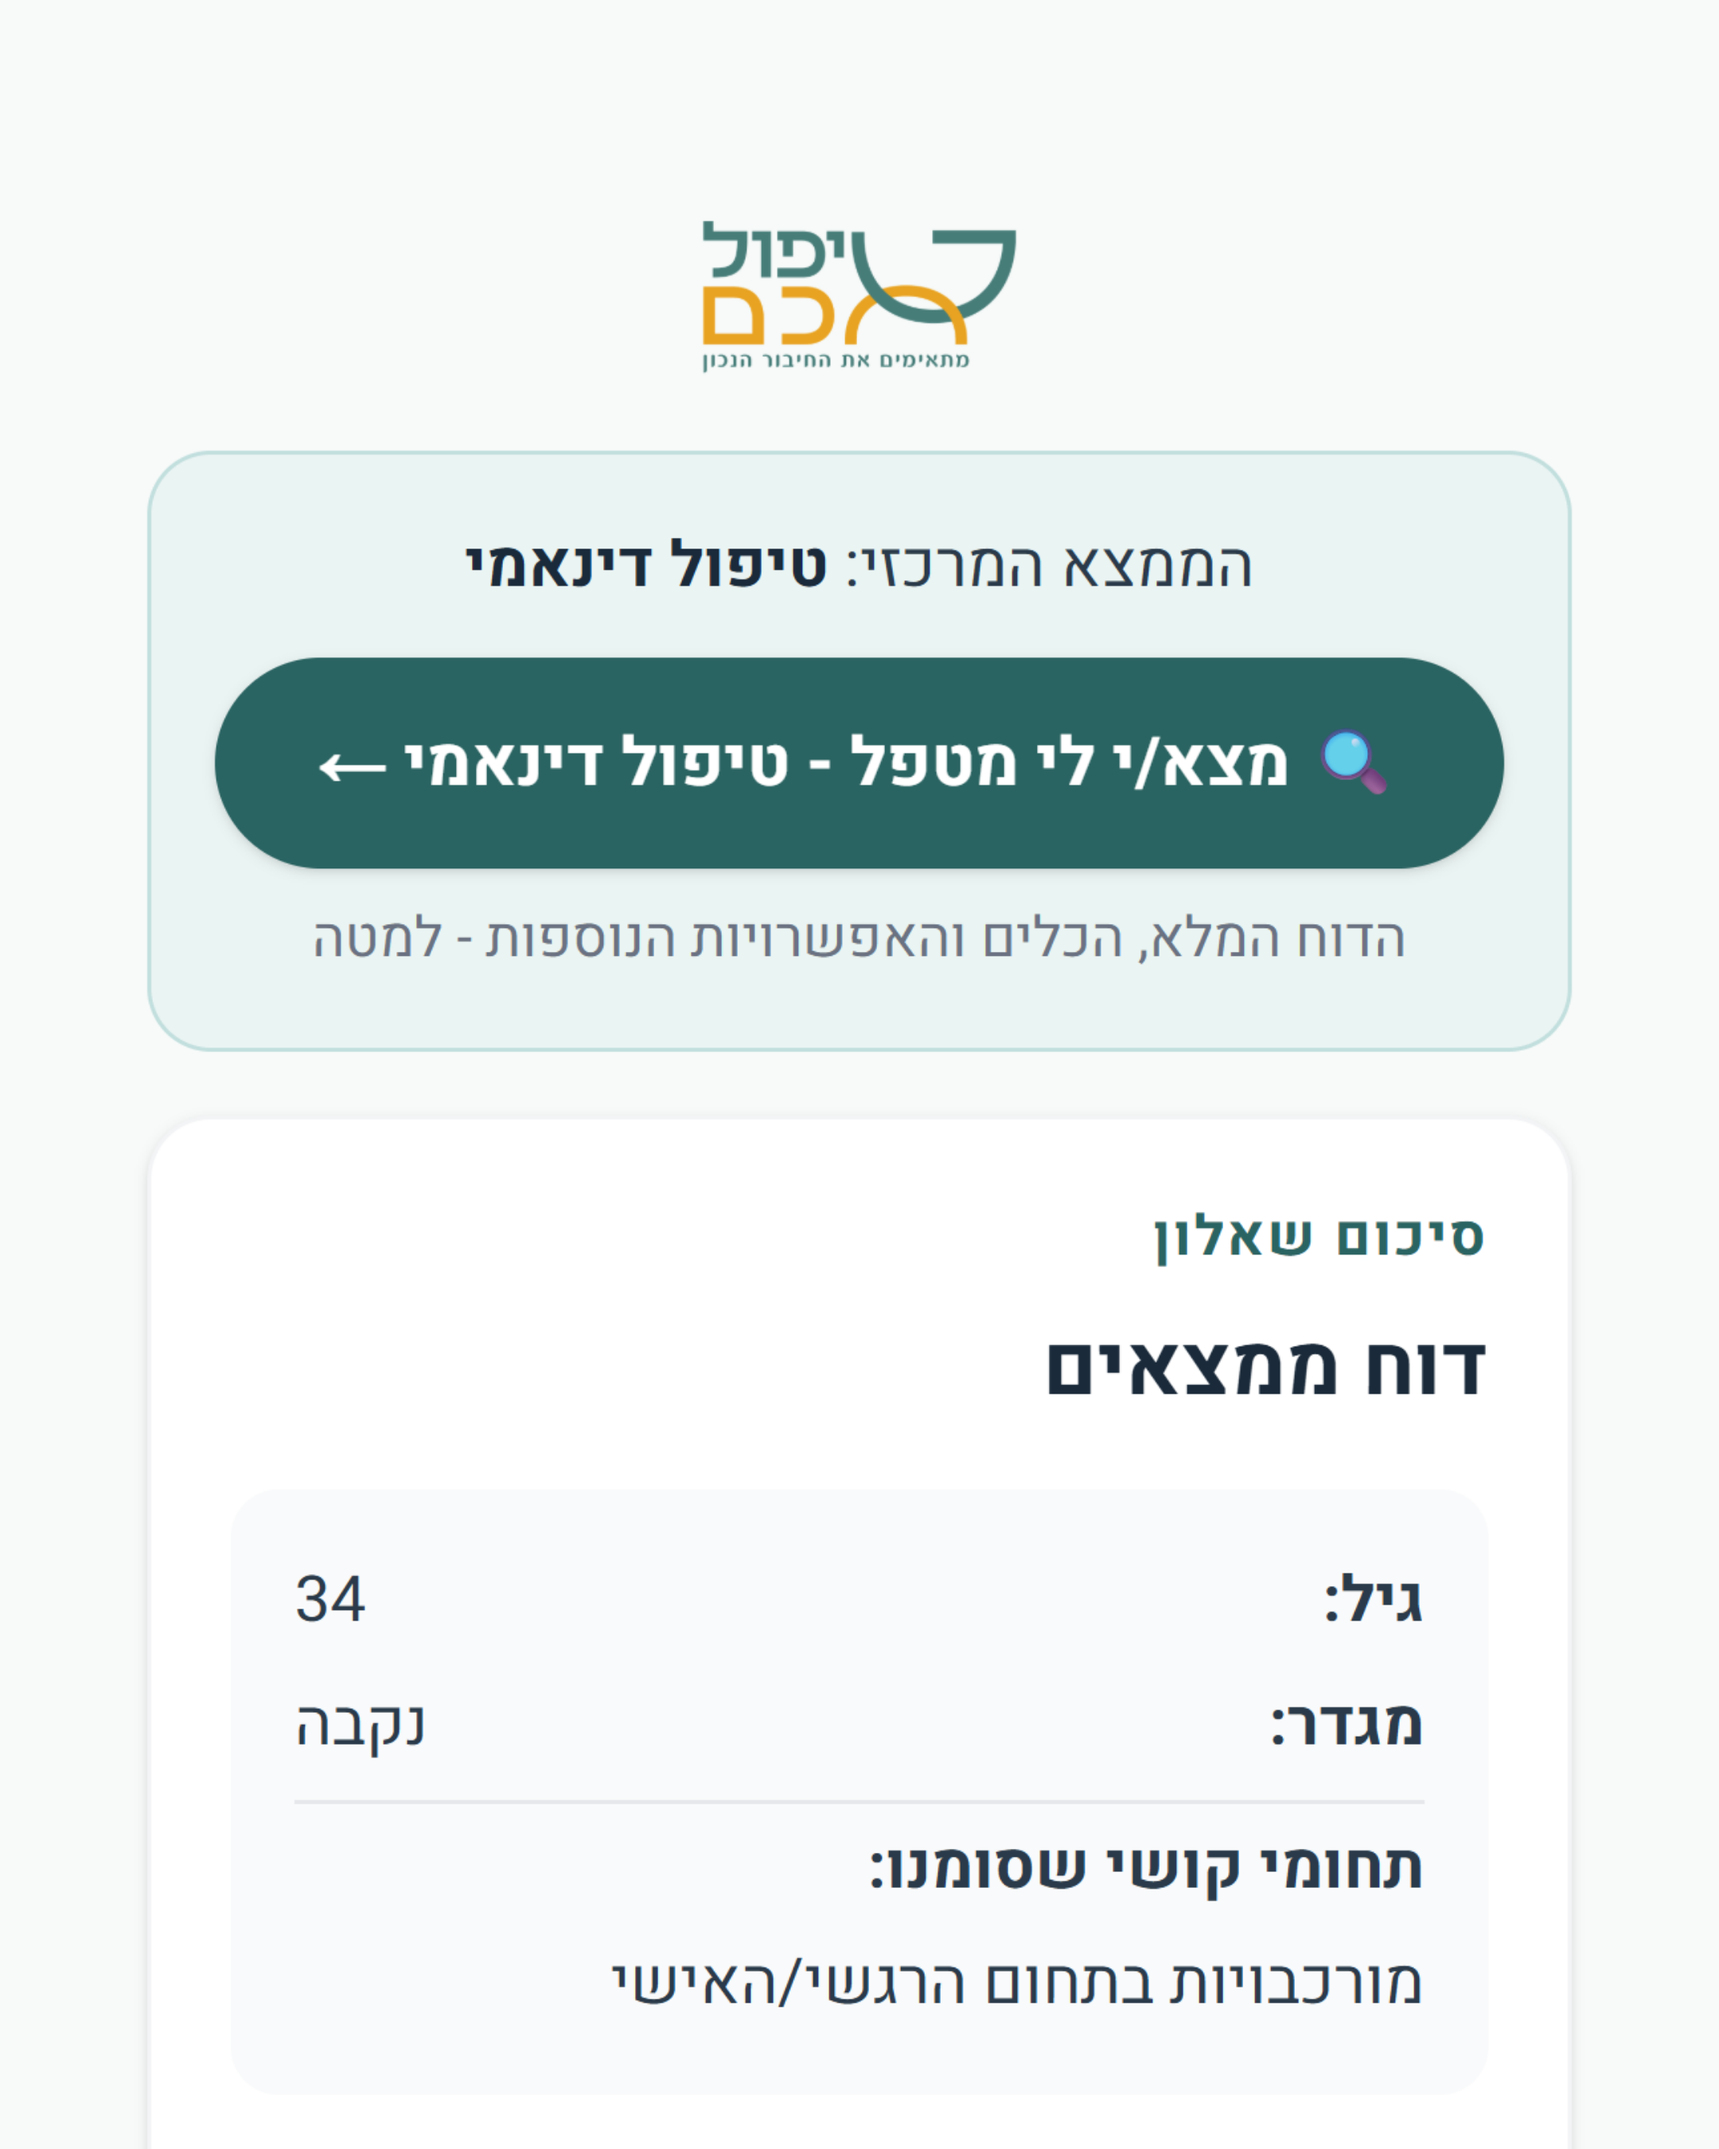
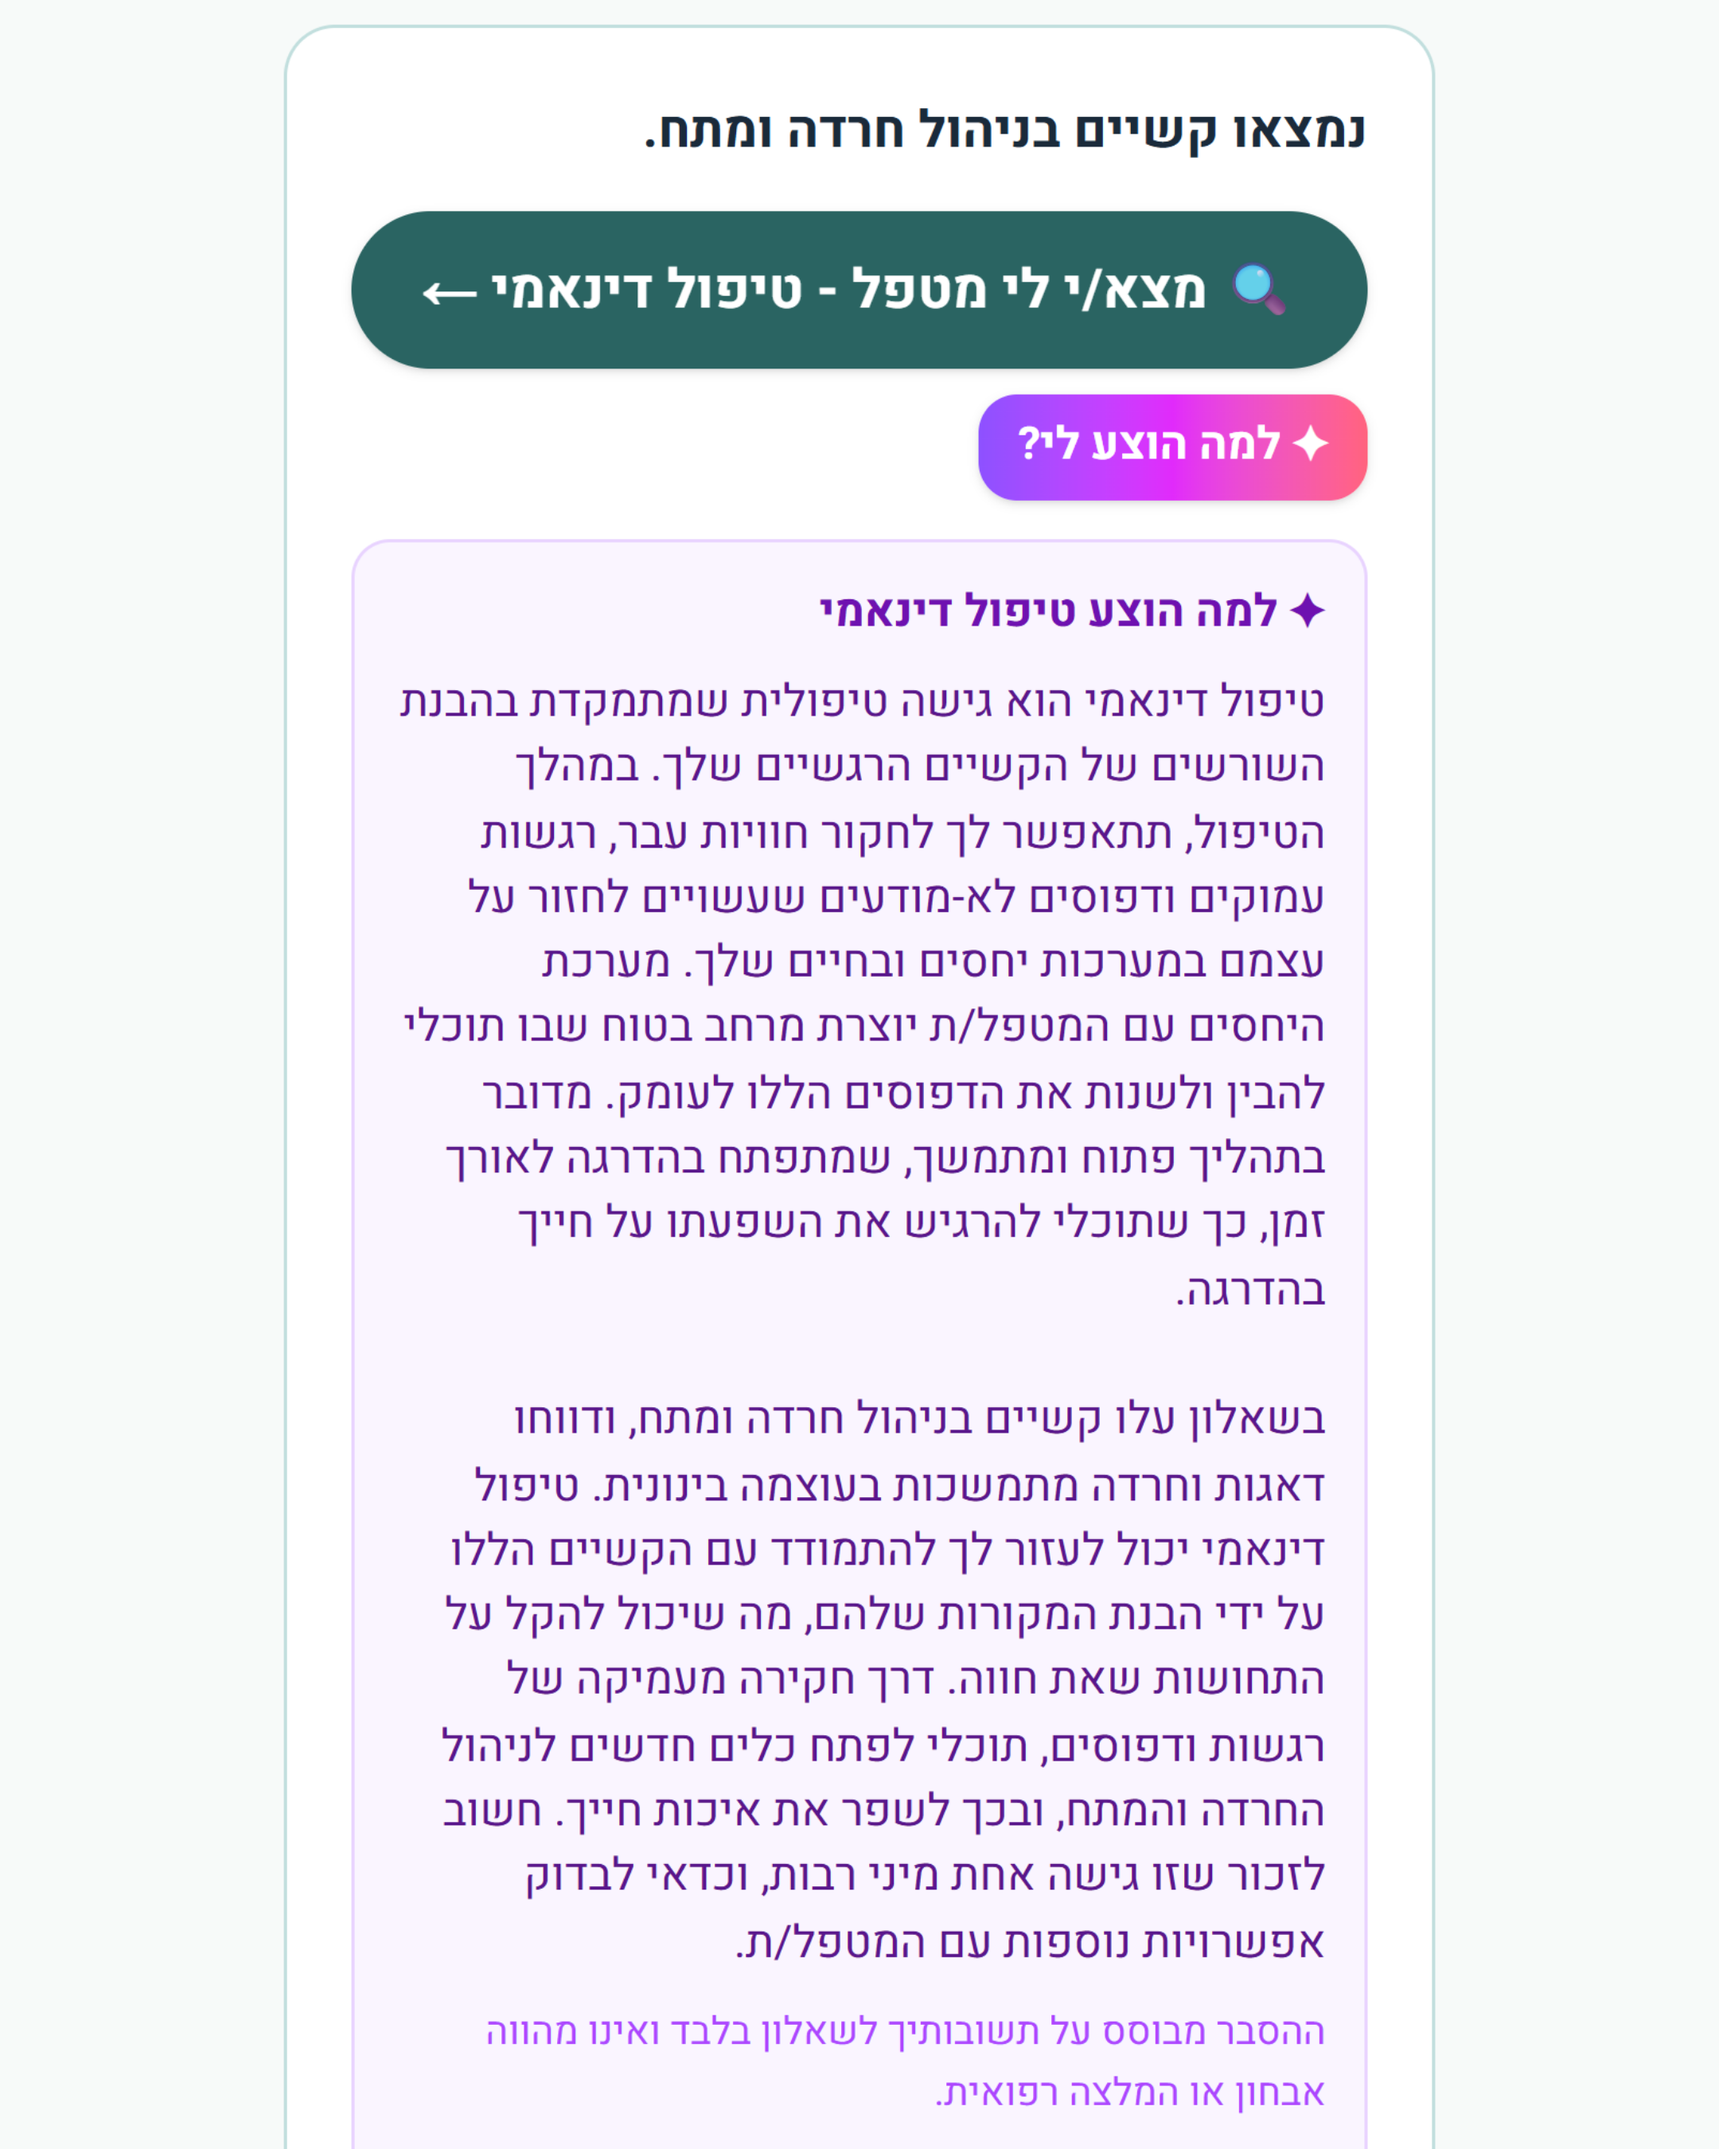
feat(fb-ads): carousel cards 3 and 4 show the two explanations the site writes
The owner asked for the report card to show the treatment with "why was this
suggested to me" opened, and for the therapist card to show "why was this
therapist matched to me", as the video does.

- card 3 is now the finding, the button that searches for the treatment and the
  explanation, both paragraphs down to its caveat
- card 4 is one therapist: the match percentages and the explanation, down to
  its caveat (carousel-src/a_list1.png, the same capture with the box opened)
- both explanations speak to the reader about anxiety, which is what Meta's
  Personal Attributes rule rejects; the risk was put to him, and the first
  versions stay under their own names as the fallback to swap in

Changed region(s): [[0.1241, 0.0311, 0.8995, 0.9956], [0.1551, 0.7156, 0.2481, 0.84], [0.1551, 0.1867, 0.1861, 0.2178]]

diff --git a/docs/ads-images/meta-2026-10/gen_carousel.py b/docs/ads-images/meta-2026-10/gen_carousel.py
@@ -16,11 +16,16 @@ whose therapist has no photo shows this same silhouette, so no face had to be ma
 Rules:
 - A crop only. Nothing is moved, joined or redrawn, and the page's own background fills the
   margins. Each cut falls in a gap of the page, never through a line of text.
-- The list card says "דמו להמחשה", as the videos do next to the same list.
-- The report card shows the treatment and the summary, not the paragraph that names the
-  difficulty: Meta's "Personal Attributes" rule is about an ad that tells the viewer what
-  they suffer from, and a sample report is the nearest these cards come to it.
+- A therapist card says "דמו להמחשה", as the videos do next to the same list.
 - Same size as the poster: 1080x1350 at a 2x device scale.
+
+The first versions of cards 3 and 4 showed the report's summary and two therapists side by
+side with their percentages. The owner then asked (12/10/2026) for the two explanations the
+site writes, as the video shows them: "why was this suggested to me" under the treatment, and
+"why was this therapist matched to me" on the therapist's card. Both speak to the reader about
+anxiety, and Meta's "Personal Attributes" rule is about exactly that, an ad telling the viewer
+what they suffer from; the risk was put to him. Each explanation is shown down to its own
+caveat ("not a diagnosis"). The first versions are kept under their own names as the fallback.
 """
 import io, os, subprocess
 from PIL import Image
@@ -49,11 +54,18 @@ img{position:absolute;display:block}
 CARDS = {
     # The opening screen, down to the third promise ("only what is relevant").
     "fb-patients-carousel-2-quiz": ("a_open0.png", 30, 1650, 0, ""),
-    # The result: the treatment, the button that searches for it, and the summary. The page's
-    # top margin is 48px taller here so that the cut falls in the gap after the summary.
-    "fb-patients-carousel-3-report": ("a_report1.png", 0, 1562, 48, ""),
+    # The finding with its treatment, and "why was this suggested to me" opened: both
+    # paragraphs and the caveat under them.
+    "fb-patients-carousel-3-report": ("a_report1.png", 2470, 4475, 0, ""),
+    # One therapist: the match percentages, and "why was this therapist matched to me"
+    # opened, down to its caveat.
+    "fb-patients-carousel-4-therapists": ("a_list1.png", 1412, 3690, 56, "דמו להמחשה"),
+    # The fallback, with neither explanation. The top of the report: the treatment, the
+    # button that searches for it, and the summary (the page's top margin is 48px taller so
+    # that the cut falls in the gap after the summary).
+    "fb-patients-carousel-3-report-summary": ("a_report1.png", 0, 1562, 48, ""),
     # The first therapist in full and the second down to the match percentages.
-    "fb-patients-carousel-4-therapists": ("a_list0.png", 1412, 3048, 60, "דמו להמחשה"),
+    "fb-patients-carousel-4-therapists-list": ("a_list0.png", 1412, 3048, 60, "דמו להמחשה"),
 }
 
 

diff --git a/docs/ads-copy/meta-2026-10.md b/docs/ads-copy/meta-2026-10.md
@@ -152,8 +152,13 @@
 |---|---|---|---|
 | 1 | `fb-patients-image.png` | הכרזה של מודעה 3 | בטיפול, ההתאמה היא העיקר |
 | 2 | `fb-patients-carousel-2-quiz.png` | מסך הפתיחה של שאלון המבוגרים | שאלון חינמי ואנונימי, 2-4 דקות |
-| 3 | `fb-patients-carousel-3-report.png` | ראש דוח הממצאים: "הממצא המרכזי: טיפול דינאמי" והסיכום | המלצה על שיטת טיפול |
-| 4 | `fb-patients-carousel-4-therapists.png` | שני מטפלים עם אחוזי ההתאמה: כוללת, מקצועי, אישיותי | רשימת מטפלים, מדורגת לפי התאמה |
+| 3 | `fb-patients-carousel-3-report.png` | הממצא, הכפתור "מצא/י לי מטפל - טיפול דינאמי", ו"למה הוצע לי?" פתוח: שתי הפסקאות וההסתייגות שמתחתיהן | דוח במילים פשוטות, והסבר למה |
+| 4 | `fb-patients-carousel-4-therapists.png` | מטפל אחד: התאמה כוללת, מקצועית ואישיותית, ו"למה הותאמ/ה לי?" פתוח עד ההסתייגות | מטפלים לפי התאמה מקצועית ואישיותית |
+
+תמונות 3 ו-4 הן הגרסה השנייה. הראשונה הראתה את ראש הדוח (הממצא המרכזי והסיכום) ושני מטפלים זה
+מתחת לזה עם האחוזים. הבעלים ביקש באותו יום להראות את שני ההסברים שהאתר כותב, כמו בסרטון. הגרסה
+הראשונה נשמרה כחלופה: `fb-patients-carousel-3-report-summary.png` ו-
+`fb-patients-carousel-4-therapists-list.png` (בדרופבוקס: `גרסה בלי ההסברים`).
 
 כתובת, אותה כתובת בכל ארבע התמונות:
 `https://www.mentalytics.co.il/lp/story-c?utm_source=facebook&utm_medium=paid&utm_campaign=fb-patients-carousel`
@@ -166,8 +171,10 @@
   תמונה. לא משתמשים בתמונה של מטפל אמיתי עם שם בדוי.
 - **בהגדרות המודעה:** לכבות סידור אוטומטי של התמונות לפי ביצועים, כדי שהכרזה תישאר ראשונה
   והסדר יספר את התהליך, ולכבות הוספה של תמונת הפרופיל של העמוד בסוף.
-- **הסיכון:** תמונה 3 היא דוח לדוגמה ("תחומי קושי שסומנו"), והיא הקרובה ביותר למה ש-Personal
-  Attributes פוסלת. אם הקרוסלה נדחית, מורידים אותה קודם. דחייה חלה על המודעה כולה.
+- **הסיכון:** שני ההסברים פונים אל הקורא ומדברים על חרדה ("הקשיים הרגשיים שלך", "לצרכים שלך
+  בניהול חרדה ומתח"), וזה בדיוק מה ש-Personal Attributes פוסלת. טקסט בתוך תמונה נבדק גם הוא.
+  הסיכון הוצג לבעלים. אם הקרוסלה נדחית, מחליפים את תמונות 3 ו-4 בגרסה בלי ההסברים, והכתובת
+  נשארת. דחייה חלה על המודעה כולה.
 - **מול הלקח מיולי ("בלי קרוסלה"):** שם הקרוסלות היו עמוסות טקסט. כאן התמונה הראשונה היא הכרזה,
   והיא זו שרוב הגולשים רואים; השאר הן למי שמחליק.
 
